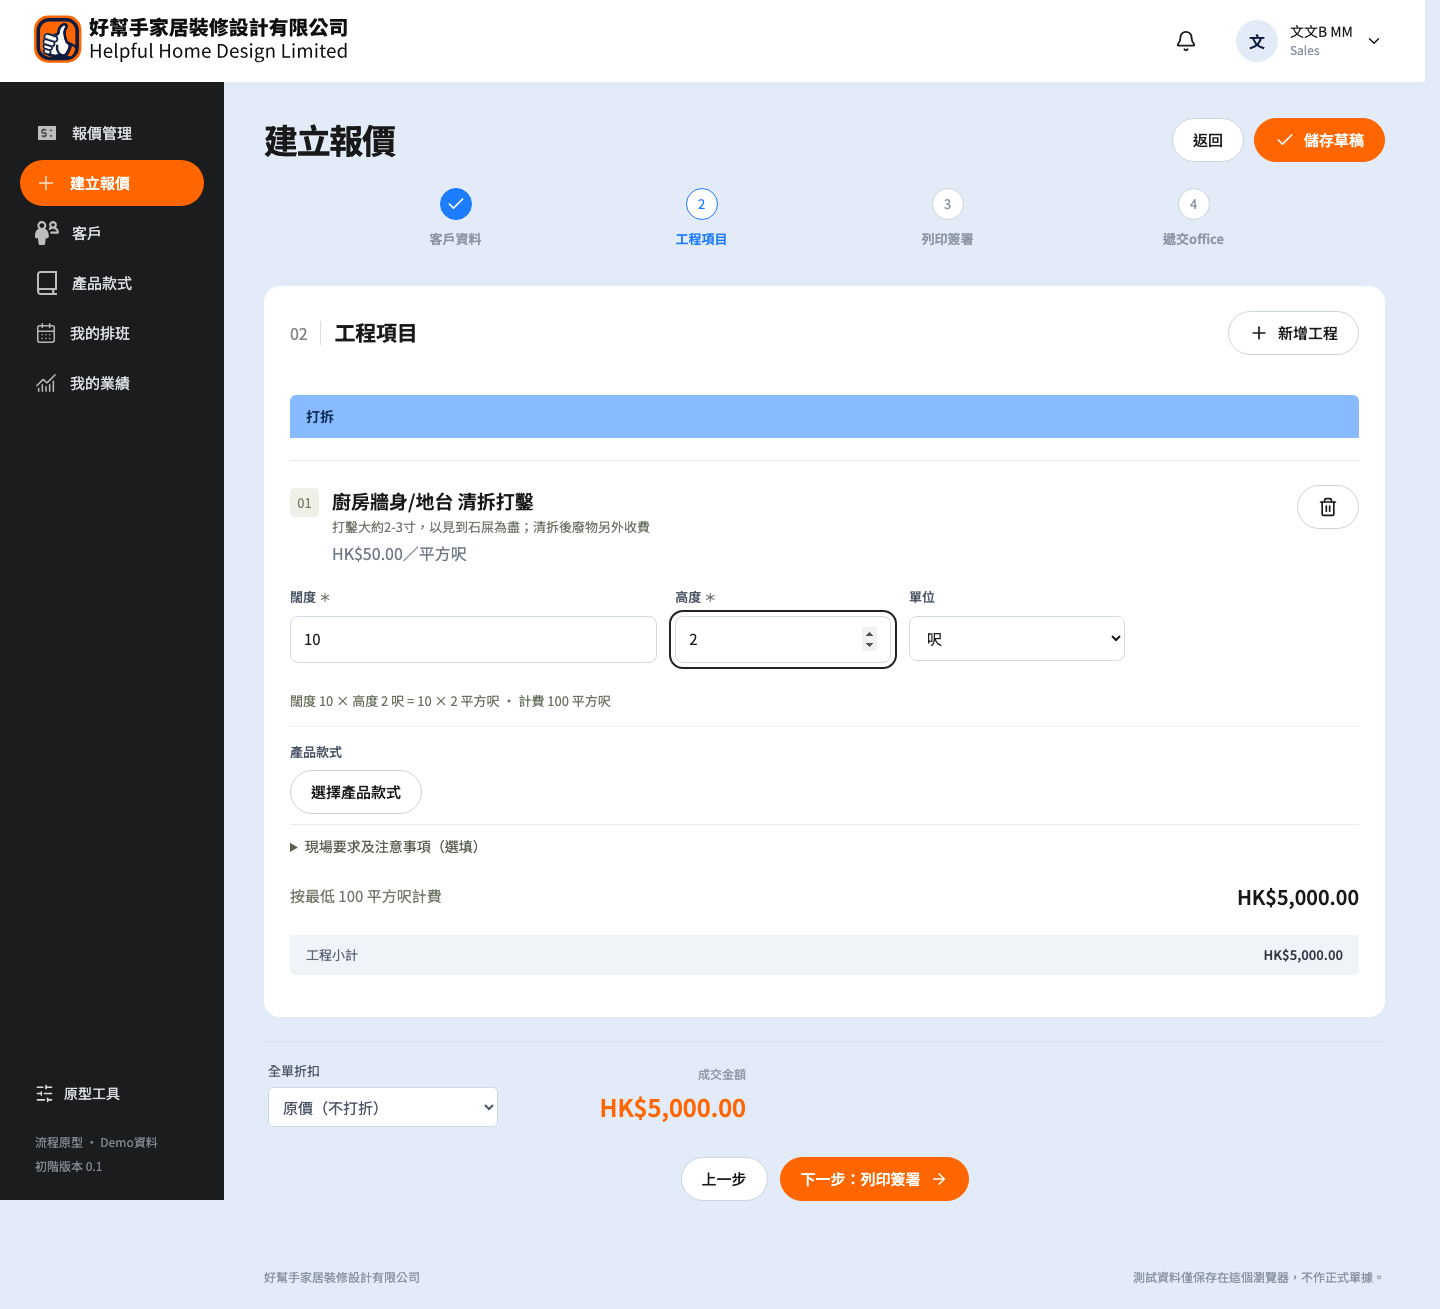
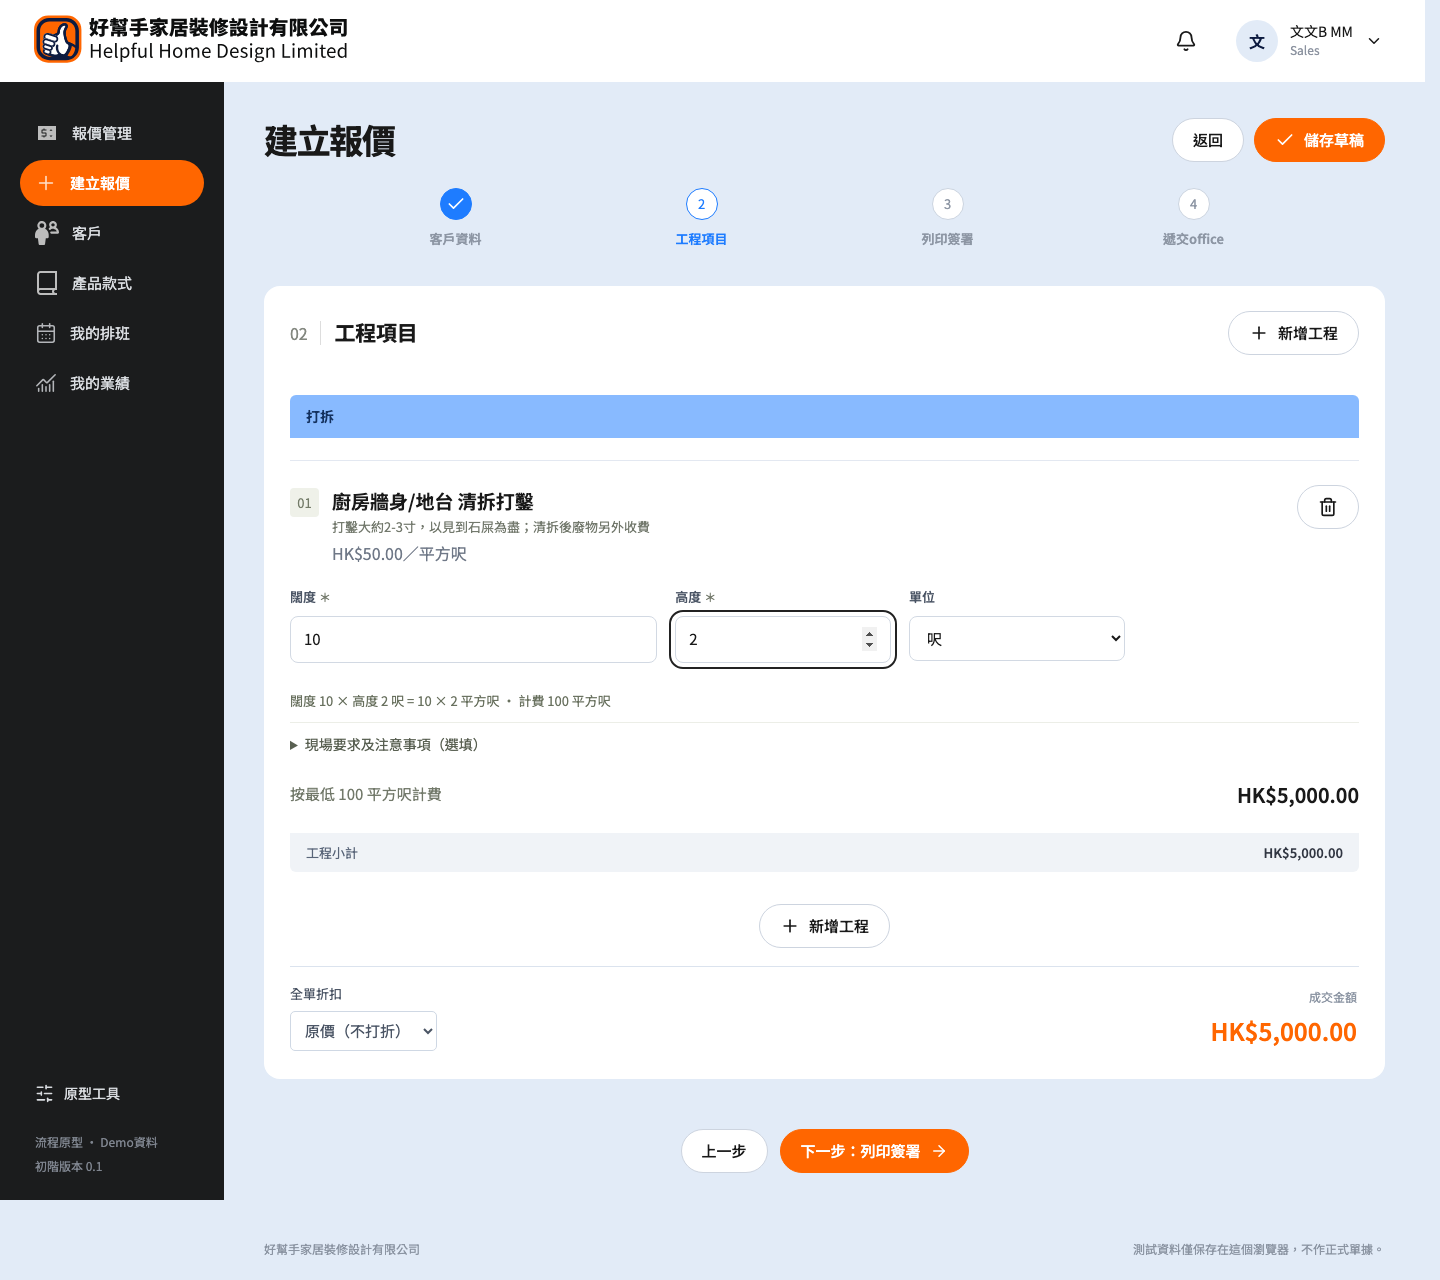
fix(quotes): align Step 2 totals and Step 4 navigation

diff --git a/src/pages/Quotes.tsx b/src/pages/Quotes.tsx
@@ -1107,6 +1107,70 @@ export function QuoteEditor() {
                 })}
               </div>
             )}
+            {lines.length > 0 && (
+              <div className="quote-add-bottom">
+                <Button
+                  aria-label="新增工程項目"
+                  onClick={() => setPicker(true)}
+                >
+                  <Plus size={20} />
+                  新增工程
+                </Button>
+              </div>
+            )}
+            {wizard && (
+              <div className="quote-step2-summary">
+                <div className="quote-step2-discount">
+                  <label>
+                    全單折扣
+                    <select
+                      value={discountMode}
+                      onChange={(event) =>
+                        setDiscountMode(
+                          event.target.value as DiscountMode,
+                        )
+                      }
+                    >
+                      <option value="none">原價（不打折）</option>
+                      <option value="rate">百分比折扣</option>
+                      <option value="amount">自訂扣減</option>
+                    </select>
+                  </label>
+                  {discountMode === "amount" && (
+                    <label>
+                      扣減金額（HKD）
+                      <input
+                        type="number"
+                        min="0"
+                        max={pricing.subtotal}
+                        value={discountValue || ""}
+                        onChange={(event) =>
+                          setDiscountValue(Number(event.target.value))
+                        }
+                      />
+                    </label>
+                  )}
+                  {discountMode === "rate" && (
+                    <label>
+                      折扣百分比
+                      <input
+                        type="number"
+                        min="0"
+                        max="100"
+                        value={discountValue || ""}
+                        onChange={(event) =>
+                          setDiscountValue(Number(event.target.value))
+                        }
+                      />
+                    </label>
+                  )}
+                </div>
+                <div className="quote-step2-total">
+                  <span>成交金額</span>
+                  <strong>{money(pricing.total)}</strong>
+                </div>
+              </div>
+            )}
           </Section>
           )}
           {(base?.signature || clerkEditor) && (
@@ -1229,55 +1293,6 @@ export function QuoteEditor() {
         </aside>
         )}
       </div>
-      {wizard && wizardStep === 2 && (
-        <div className="quote-step2-summary">
-          <label>
-            全單折扣
-            <select
-              value={discountMode}
-              onChange={(event) =>
-                setDiscountMode(event.target.value as DiscountMode)
-              }
-            >
-              <option value="none">原價（不打折）</option>
-              <option value="rate">百分比折扣</option>
-              <option value="amount">自訂扣減</option>
-            </select>
-          </label>
-          {discountMode === "amount" && (
-            <label>
-              扣減金額（HKD）
-              <input
-                type="number"
-                min="0"
-                max={pricing.subtotal}
-                value={discountValue || ""}
-                onChange={(event) =>
-                  setDiscountValue(Number(event.target.value))
-                }
-              />
-            </label>
-          )}
-          {discountMode === "rate" && (
-            <label>
-              折扣百分比
-              <input
-                type="number"
-                min="0"
-                max="100"
-                value={discountValue || ""}
-                onChange={(event) =>
-                  setDiscountValue(Number(event.target.value))
-                }
-              />
-            </label>
-          )}
-          <div>
-            <span>成交金額</span>
-            <strong>{money(pricing.total)}</strong>
-          </div>
-        </div>
-      )}
       {wizard && (
         <div className="quote-wizard-footer">
           {wizardStep === 2 && (

diff --git a/src/styles.css b/src/styles.css
@@ -10071,14 +10071,19 @@ textarea::placeholder {
   grid-template-columns: minmax(0, 1fr);
 }
 .quote-step2-summary {
-  display: grid;
-  grid-template-columns: 230px 230px 1fr;
-  gap: 18px;
-  align-items: end;
-  max-width: 1180px;
-  margin: 0 auto;
-  padding: 18px 4px 4px;
+  display: flex;
+  align-items: flex-end;
+  justify-content: space-between;
+  gap: 20px;
+  margin-top: 18px;
+  padding-top: 16px;
   border-top: 1px solid #dbe3ee;
+}
+.quote-step2-discount {
+  display: flex;
+  flex-wrap: wrap;
+  gap: 14px;
+  align-items: flex-end;
 }
 .quote-step2-summary label {
   display: grid;
@@ -10094,26 +10099,29 @@ textarea::placeholder {
   border-radius: 5px;
   background: #fff;
 }
-.quote-step2-summary > div {
+.quote-step2-total {
   display: grid;
   justify-items: end;
   gap: 4px;
+  margin-left: auto;
+  padding-right: 2px;
 }
-.quote-step2-summary > div span {
+.quote-step2-total span {
   color: #8d96a4;
   font-size: 12px;
 }
-.quote-step2-summary > div strong {
+.quote-step2-total strong {
   color: var(--orange);
   font-size: 24px;
+  font-variant-numeric: tabular-nums;
+}
+.quote-add-bottom {
+  display: flex;
+  justify-content: center;
+  margin: 18px 0 6px;
 }
 .service-style-option {
   margin: 0 0 16px;
-}
-@media (max-width: 900px) {
-  .quote-step2-summary {
-    grid-template-columns: 1fr 1fr;
-  }
 }
 
 .handoff-upload-box {

diff --git a/src/domain/engine.ts b/src/domain/engine.ts
@@ -5893,6 +5893,7 @@ function createDemoCatalogServices(): ServiceItem[] {
     execution: "contractor",
     costMode: "ratio",
     costBasis: "line",
+    needsProductStyle: false,
     options: [],
     allowPending: false,
     notes: "",
@@ -5937,6 +5938,7 @@ function createAdditionalCatalogServices(): ServiceItem[] {
     execution: "contractor" as const,
     costMode: "ratio" as const,
     costBasis: "line" as const,
+    needsProductStyle: false,
     options: [],
     allowPending: false,
     notes: "",
@@ -6033,6 +6035,7 @@ function createAdditionalCatalogServices(): ServiceItem[] {
     service.scope = scope;
     service.price = price;
     service.measure = measure;
+    service.needsProductStyle = true;
     service.unit = measure === "length" ? "直呎" : "項";
     service.minQty = measure === "length" ? 3 : 0;
     service.increment = measure === "length" ? 0.5 : 0;
@@ -6052,6 +6055,7 @@ function hydrateDemoCatalogServices(services: ServiceItem[]): void {
     if (!service) return;
     service.details ??= defaultItem.details;
     service.scope ??= defaultItem.scope;
+    service.needsProductStyle ??= defaultItem.needsProductStyle;
     service.linkedServiceIds ??= [];
   });
 }

diff --git a/tests/e2e/quote-dimensions.spec.ts b/tests/e2e/quote-dimensions.spec.ts
@@ -34,9 +34,8 @@ test("報價尺寸可切換呎／寸並即時換算", async ({ page }) => {
   await expect(line.getByLabel("闊度", { exact: false })).toHaveValue("8");
   await expect(line.getByLabel("高度", { exact: false })).toHaveValue("1");
 
-  await line.getByRole("button", { name: "選擇產品款式", exact: true }).click();
   await expect(
-    page.getByRole("dialog", { name: "選擇產品款式" }),
-  ).toBeVisible();
+    line.getByRole("button", { name: "選擇產品款式", exact: true }),
+  ).toHaveCount(0);
   expect(errors).toEqual([]);
 });

diff --git a/src/pages/QuoteHandoff.tsx b/src/pages/QuoteHandoff.tsx
@@ -616,10 +616,8 @@ export function QuoteHandoff() {
             )}
           </div>
           <div className="quote-wizard-footer">
-            <Button onClick={() => setStep(3)}>上一步</Button>
-            {quote.submission && (
-              <Button onClick={() => nav(`/quotes/${id}`)}>查看報價</Button>
-            )}
+            <Button onClick={() => nav("/quotes")}>回主頁</Button>
+            <Button onClick={() => nav(`/quotes/${id}`)}>查看報價</Button>
           </div>
         </>
       )}
